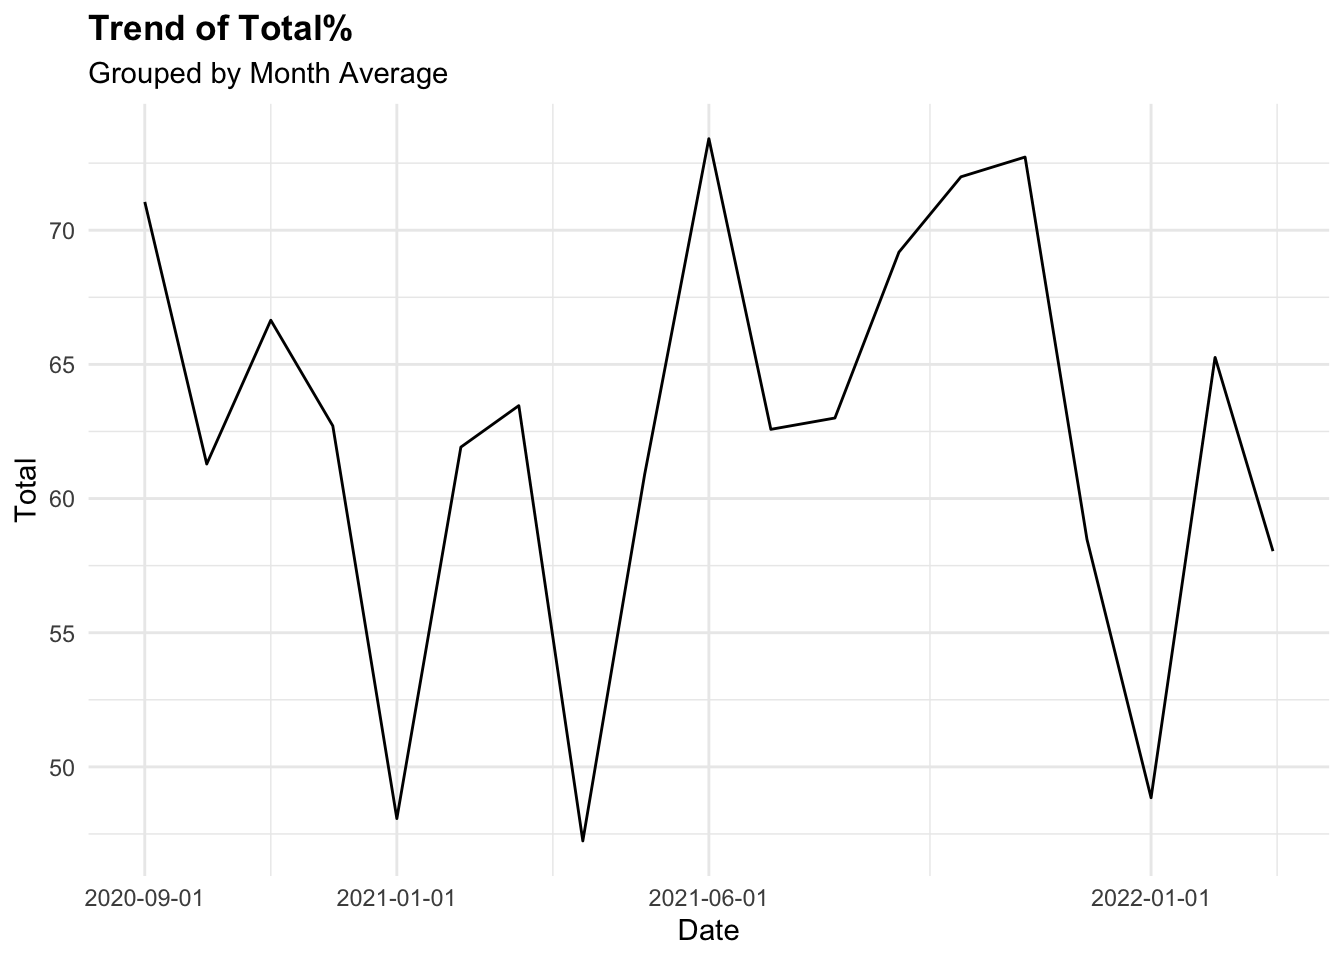
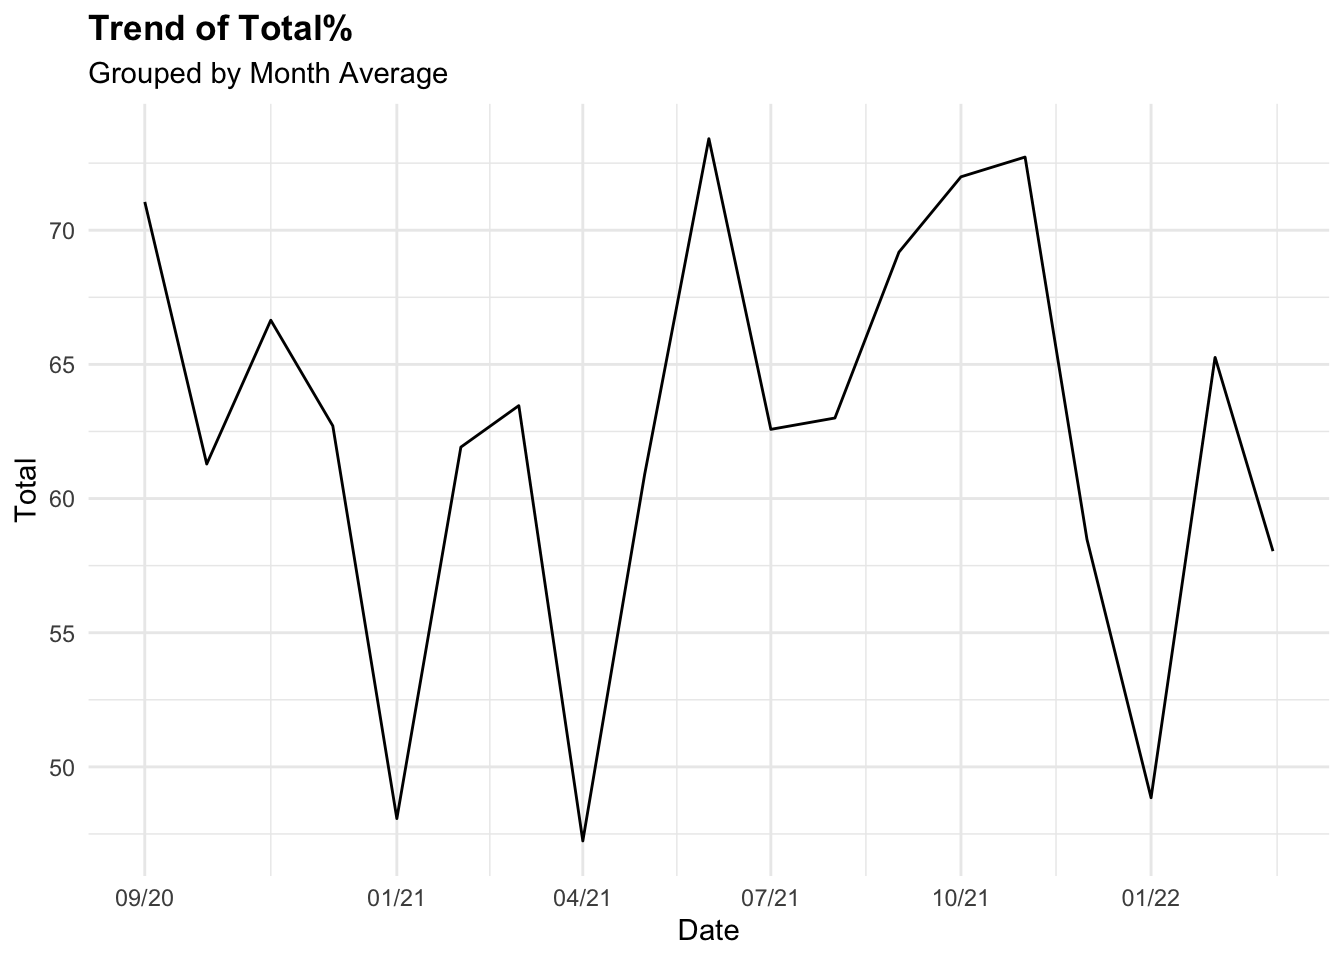
delete unnecessary files

diff --git a/self_evaluation.html b/self_evaluation.html
@@ -476,8 +476,9 @@ ggplot(all_dat_month)+
   labs(title = &quot;Trend of Total%&quot;,
               subtitle = &quot;Grouped by Month Average&quot;)+
   theme(plot.title = element_text(face = &quot;bold&quot;)) +
-  scale_x_continuous(breaks = ymd(&quot;2020-09-01&quot;, &quot;2021-01-01&quot;, &quot;2021-06-01&quot;,
-                                &quot;2022-01-01&quot;))</code></pre>
+  scale_x_continuous(breaks = ymd(&quot;2020-09-01&quot;, &quot;2021-01-01&quot;,&quot;2021-04-01&quot;, &quot;2021-07-01&quot;, &quot;2021-10-01&quot;,&quot;2022-01-01&quot;, &quot;2022-04-01&quot;),
+                     labels=c(&quot;09/20&quot;, &quot;01/21&quot;, &quot;04/21&quot;, &quot;07/21&quot;, 
+                                &quot;10/21&quot;, &quot;01/22&quot;,&quot;04/22&quot;))</code></pre>
 <p><img src="self_evaluation_files/figure-html/unnamed-chunk-8-1.png" width="672" /></p>
 <p><br><br />
 <br></p>
@@ -593,27 +594,31 @@ ggplot(dplyr::filter(all_morning_rt, total_checked != 0)) +
 <li>Multiple Regression Analysis with meaningful variables</font></li>
 </ul></li>
 </ul>
-<pre class="r"><code>model &lt;- lm(work_finished ~ Meditation, data = all_dat)
+<pre class="r"><code>model &lt;- lm(Phone_pickups ~ Rise_time, data = all_morning_rt)
 summary(model)</code></pre>
 <pre><code>## 
 ## Call:
-## lm(formula = work_finished ~ Meditation, data = all_dat)
+## lm(formula = Phone_pickups ~ Rise_time, data = all_morning_rt)
 ## 
 ## Residuals:
-##      Min       1Q   Median       3Q      Max 
-## -0.61913 -0.09027  0.03438  0.12702  0.45108 
+##     Min      1Q  Median      3Q     Max 
+## -49.954 -21.348  -0.977  17.865  67.517 
 ## 
 ## Coefficients:
 ##             Estimate Std. Error t value Pr(&gt;|t|)    
-## (Intercept) 0.548925   0.013352   41.11   &lt;2e-16 ***
-## Meditation  0.019423   0.001215   15.99   &lt;2e-16 ***
+## (Intercept)  96.9544     2.4036  40.338  &lt; 2e-16 ***
+## Rise_time    -0.1348     0.0263  -5.127 8.32e-07 ***
 ## ---
 ## Signif. codes:  0 &#39;***&#39; 0.001 &#39;**&#39; 0.01 &#39;*&#39; 0.05 &#39;.&#39; 0.1 &#39; &#39; 1
 ## 
-## Residual standard error: 0.1941 on 508 degrees of freedom
-##   (3 observations deleted due to missingness)
-## Multiple R-squared:  0.3348, Adjusted R-squared:  0.3335 
-## F-statistic: 255.7 on 1 and 508 DF,  p-value: &lt; 2.2e-16</code></pre>
+## Residual standard error: 28.16 on 162 degrees of freedom
+## Multiple R-squared:  0.1396, Adjusted R-squared:  0.1343 
+## F-statistic: 26.28 on 1 and 162 DF,  p-value: 8.318e-07</code></pre>
+<pre class="r"><code>ggplot(all_dat,aes(x=Rise_time, y=Phone_pickups))+
+  geom_smooth(method = &quot;lm&quot;)+
+  geom_point()</code></pre>
+<pre><code>## `geom_smooth()` using formula &#39;y ~ x&#39;</code></pre>
+<p><img src="self_evaluation_files/figure-html/unnamed-chunk-11-1.png" width="672" /></p>
 <pre class="r"><code># predict function:
   # uses the beta coefficents that were calculated in the lm() function.</code></pre>
 <p><br><br />

diff --git a/project_main.html b/project_main.html
@@ -416,8 +416,19 @@ glimpse(h_alldat)</code></pre>
   summarise(mean_rank = mean(H_rank)) %&gt;%
   arrange(mean_rank, &quot;DESC&quot;) %&gt;%
   filter(mean_rank &lt;= 10) )</code></pre>
-<pre><code>## [1] mean_rank
-## &lt;0 rows&gt; (or 0-length row.names)</code></pre>
+<pre><code>## # A tibble: 10 × 2
+##    Country     mean_rank
+##    &lt;chr&gt;           &lt;dbl&gt;
+##  1 Denmark           2.2
+##  2 Norway            2.8
+##  3 Iceland           3.2
+##  4 Finland           3.6
+##  5 Switzerland       3.6
+##  6 Netherlands       6.2
+##  7 Canada            6.8
+##  8 New Zealand       8.2
+##  9 Sweden            8.6
+## 10 Australia        10</code></pre>
 <pre class="r"><code>ggplot(filter(h_alldat, Region != &quot;NA&quot;)) +
   geom_boxplot(aes(x = H_score, y=reorder(Region, H_score), color = Region))+
   theme(legend.position = &quot;None&quot;) +

diff --git a/index.html b/index.html
@@ -293,7 +293,7 @@ $(document).ready(function () {
 </div>
 
 
-<p><span style="float:right"><strong>Last Updated Time</strong>: 2022-04-05 15:51:28</span></p>
+<p><span style="float:right"><strong>Last Updated Time</strong>: 2022-04-07 13:33:48</span></p>
 <hr />
 <p><br></p>
 <div id="self-evaluation-project" class="section level2">
